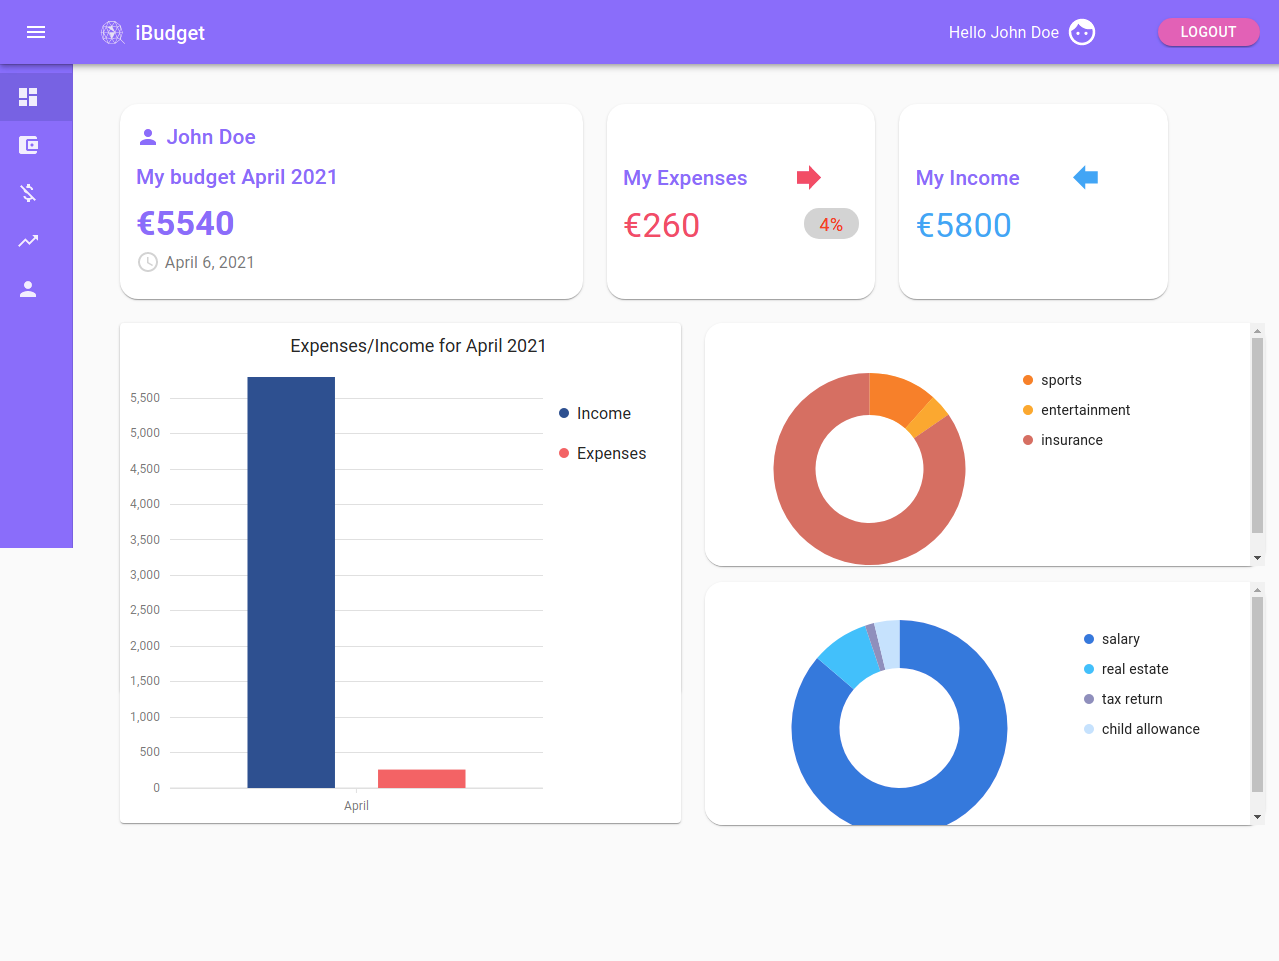
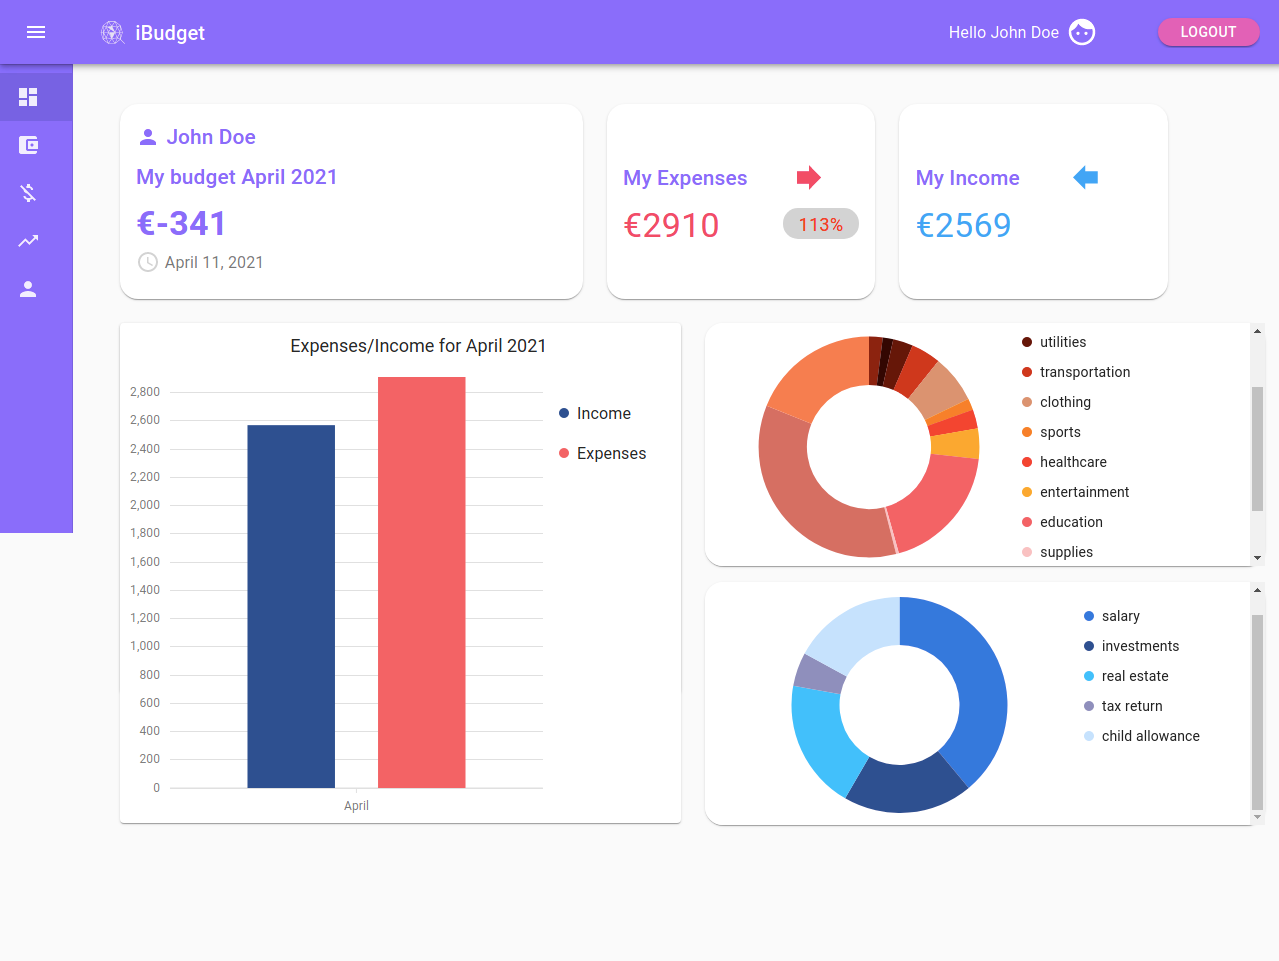
chore: updated README.md file

diff --git a/client/src/components/ExpensesMonthlyChart/index.tsx b/client/src/components/ExpensesMonthlyChart/index.tsx
@@ -17,18 +17,16 @@ import './style.scss'
 const useStyles = makeStyles((theme: any) => ({
   chartContainer: {
     height: '243px',
-  }
+  },
 }))
 
 const chartRootStyle = {
   marginLeft: '1.3rem',
-  flexGrow: 'unset !important'
+  flexGrow: '0 !important',
 }
 
 const chartRoot = (props: any) => (
-  <Legend.Root {...props} style={chartRootStyle} 
-  className="chart-root" 
-  />
+  <Legend.Root {...props} style={chartRootStyle} className="chart-root" />
 )
 
 const legendLabelComponent = (props: any) => (
@@ -43,24 +41,25 @@ export default function ExpensesChart({
   const classes = useStyles()
   return (
     <div className={classes.chartContainer}>
-    <Chart data={chartData} 
-    height={200} 
-    // width={444}
-    >
-      <Palette scheme={chartData.map((data) => data.color)} />
-      <PieSeries
-        valueField="amount"
-        argumentField="category"
-        name="category"
-        innerRadius={0.45}
-        outerRadius={0.8}
-      />
-      <Legend labelComponent={legendLabelComponent} />
-      {/* <Title text={`Expenses Chart ${month} ${year}`} /> */}
-      <EventTracker />
-      <Tooltip />
-      <Animation />
-    </Chart>
+      <Chart
+        data={chartData}
+        height={200}
+        // width={444}
+      >
+        <Palette scheme={chartData.map((data) => data.color)} />
+        <PieSeries
+          valueField="amount"
+          argumentField="category"
+          name="category"
+          innerRadius={0.35}
+          outerRadius={0.7}
+        />
+        <Legend labelComponent={legendLabelComponent} />
+        {/* <Title text={`Expenses Chart ${month} ${year}`} /> */}
+        <EventTracker />
+        <Tooltip />
+        <Animation />
+      </Chart>
     </div>
   )
 }

diff --git a/client/src/redux/actions/income.ts b/client/src/redux/actions/income.ts
@@ -176,13 +176,11 @@ export function removeIncome(id: string, income: Income) {
 export function getTotalMonthlyIncome(monthlyData: any) {
   return (dispatch: Dispatch) => {
     try {
-      let count: any = 0
       if (monthlyData !== undefined) {
-        // console.log('from getTotalMonthlyIncome action', monthlyData)
-        for (const income of monthlyData.income) {
-          const { amount } = income
-          count += amount
-        }
+        const count = monthlyData?.income.reduce(
+          (acc: any, current: any) => acc + current.amount,
+          0
+        )
         dispatch(totalMonthlyIncome(count))
       }
     } catch (error) {

diff --git a/README.md b/README.md
@@ -25,14 +25,18 @@ An IBudget full-stack app that helps its users with monthly budgeting planning i
 
 ![screenshot](./client/public/images/home.png)
 ![screenshot](./client/public/images/register.png)
+![screenshot](./client/public/images/signin.png)
 ![screenshot](./client/public/images/dashboard.png)
 ![screenshot](./client/public/images/addIncome.png)
 ![screenshot](./client/public/images/income.png)
 ![screenshot](./client/public/images/expense.png)
 ![screenshot](./client/public/images/editExpense.png)
+![screenshot](./client/public/images/tileContent.png)
 ![screenshot](./client/public/images/analytics.png)
 ![screenshot](./client/public/images/profile.png)
 ![screenshot](./client/public/images/editUser.png)
+![screenshot](./client/public/images/mobile.png)
+![screenshot](./client/public/images/mobileExpenses.png)
 
 ## Technologies
 
@@ -92,5 +96,5 @@ The goal was to create a digital solution for monthly budgeting planning in one 
 
 ## Contact
 
-Project is created by 2 developers [Michele Zucca](https://www.linkedin.com/in/michele-zucca/) and [Grigor Fanyan](https://www.linkedin.com/in/gregfanyan/) : 
- feel free to contact !
+Project is created by 2 developers [Michele Zucca](https://www.linkedin.com/in/michele-zucca/) and [Grigor Fanyan](https://www.linkedin.com/in/gregfanyan/) :
+feel free to contact !
